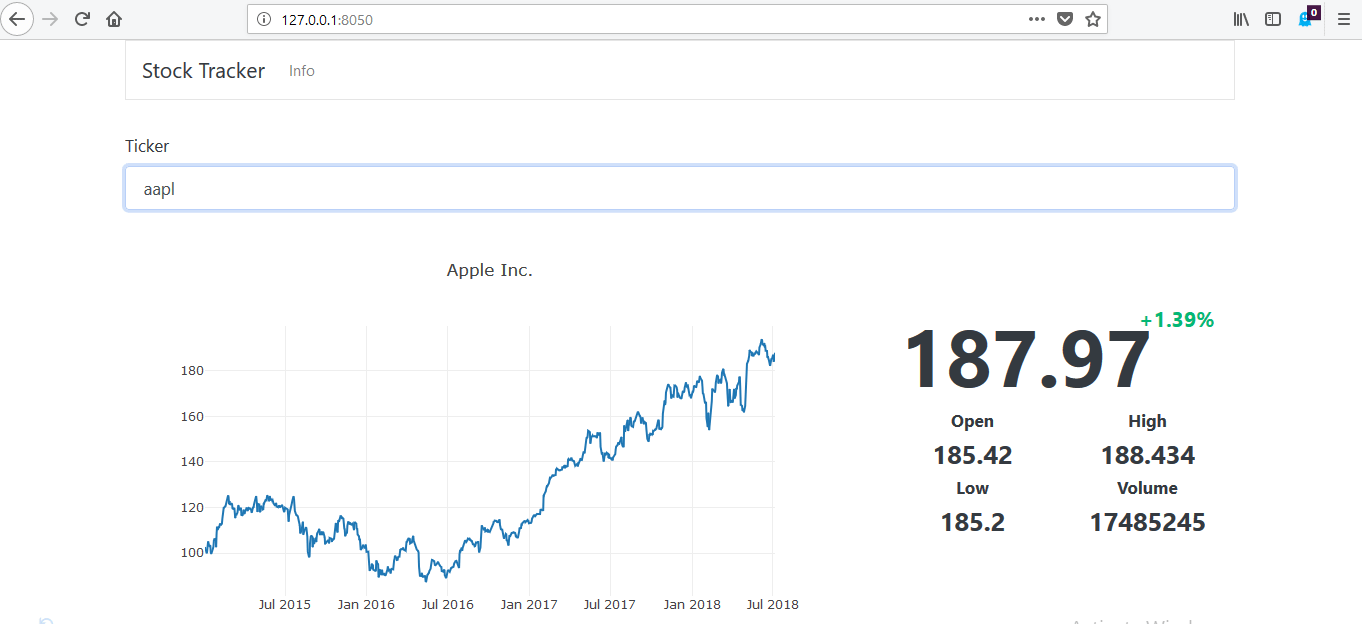
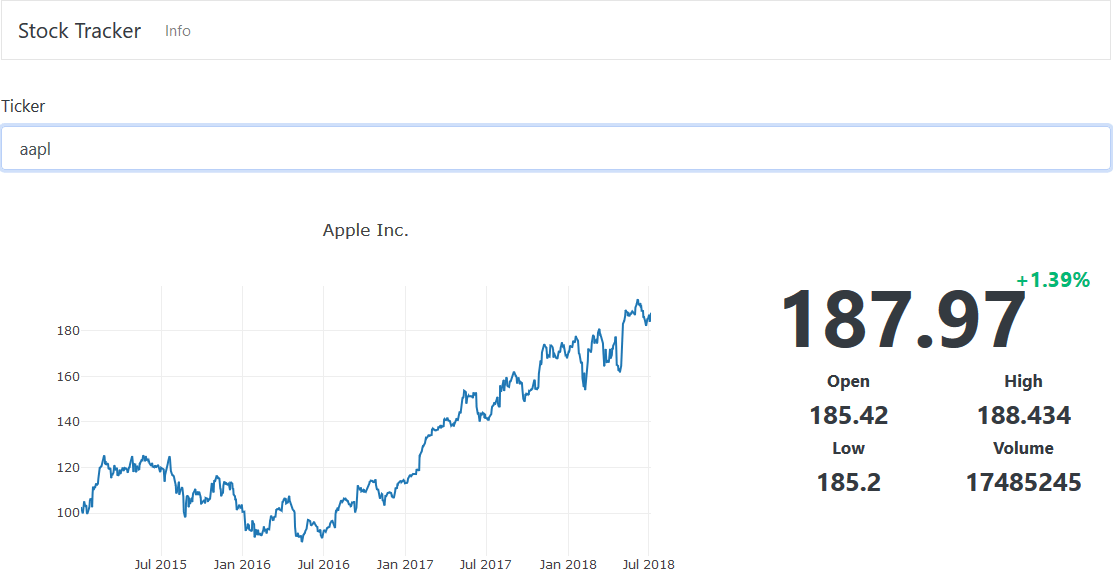
Added new sample image and stylesheets

diff --git a/app.py b/app.py
@@ -30,8 +30,8 @@ app.layout = html.Div(children=[
             ])
 
 #STYLESHEETS    
-app.css.append_css({"external_url": '/static/bootswatch.css'})
-app.css.append_css({"external_url": '/static/styles.css'})
+app.css.append_css({"external_url": '/static/stylesheets/bootswatch.css'})
+app.css.append_css({"external_url": '/static/stylesheets/styles.css'})
 
 #FOR EXCEPTIONS CALLED BY TWO CALLBACK FUNCTIONS
 app.config['suppress_callback_exceptions']=True 

diff --git a/README.md b/README.md
@@ -5,6 +5,7 @@ This is a [Dash](.plot.ly/) server application that uses IEX API to display stoc
 How it works?
 --
 Enter any ticker symbol for a NASDAQ listed company (such as "AAPL" or "GOOGL" or "MSFT") and data is displayed in real time alongwith Graph.
+
 ![Example](static/images/Untitled.png)
 
 Downloading and requirements
@@ -23,8 +24,10 @@ I used [iexfinance](https://github.com/addisonlynch/iexfinance) API for stock da
 
 ### Exploratory Data Analysis
 
-From the data provided by API(open, close, high, low and volume), I calculated Percentage change using formula.
+From the data provided by API(open, close, high, low and volume), I calculated Percentage change using formula:
+
 ``Percentage Change = ((Current Price - Open Price)/Open Price)x100``
+
 I used a "ticker.csv" file for fetching name of the company from its ticker symbol.
 
 ### Data Visualization
